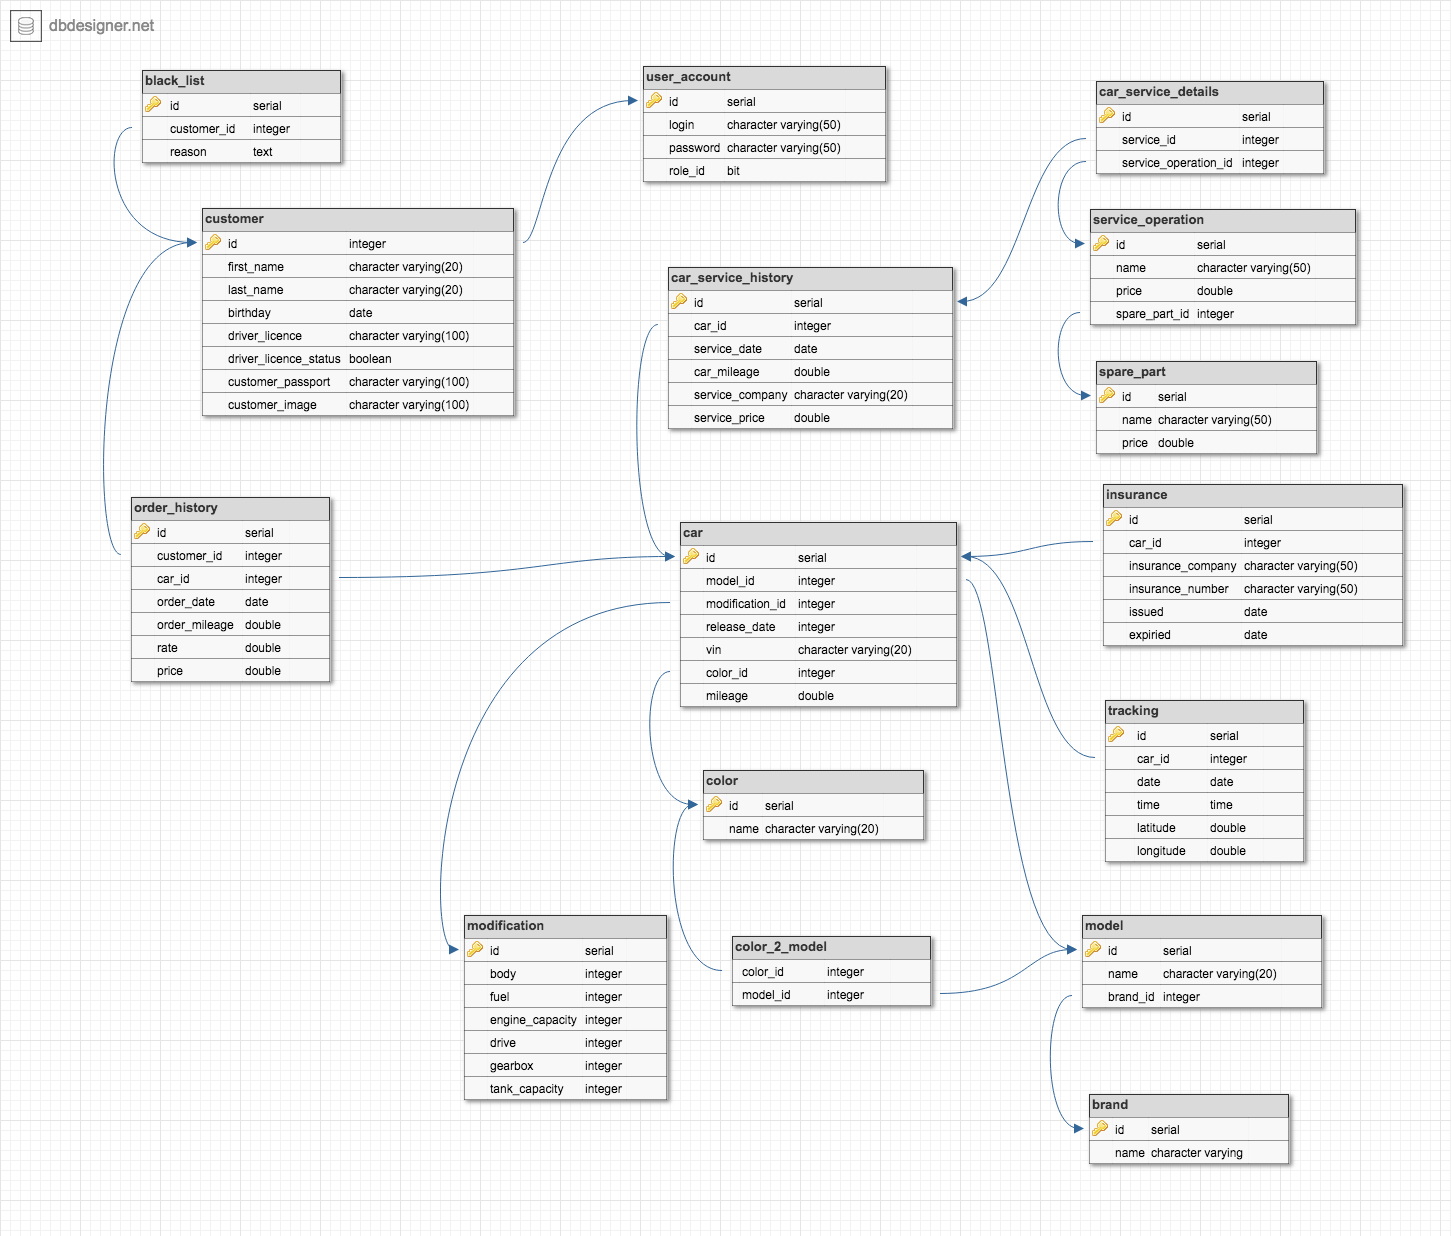
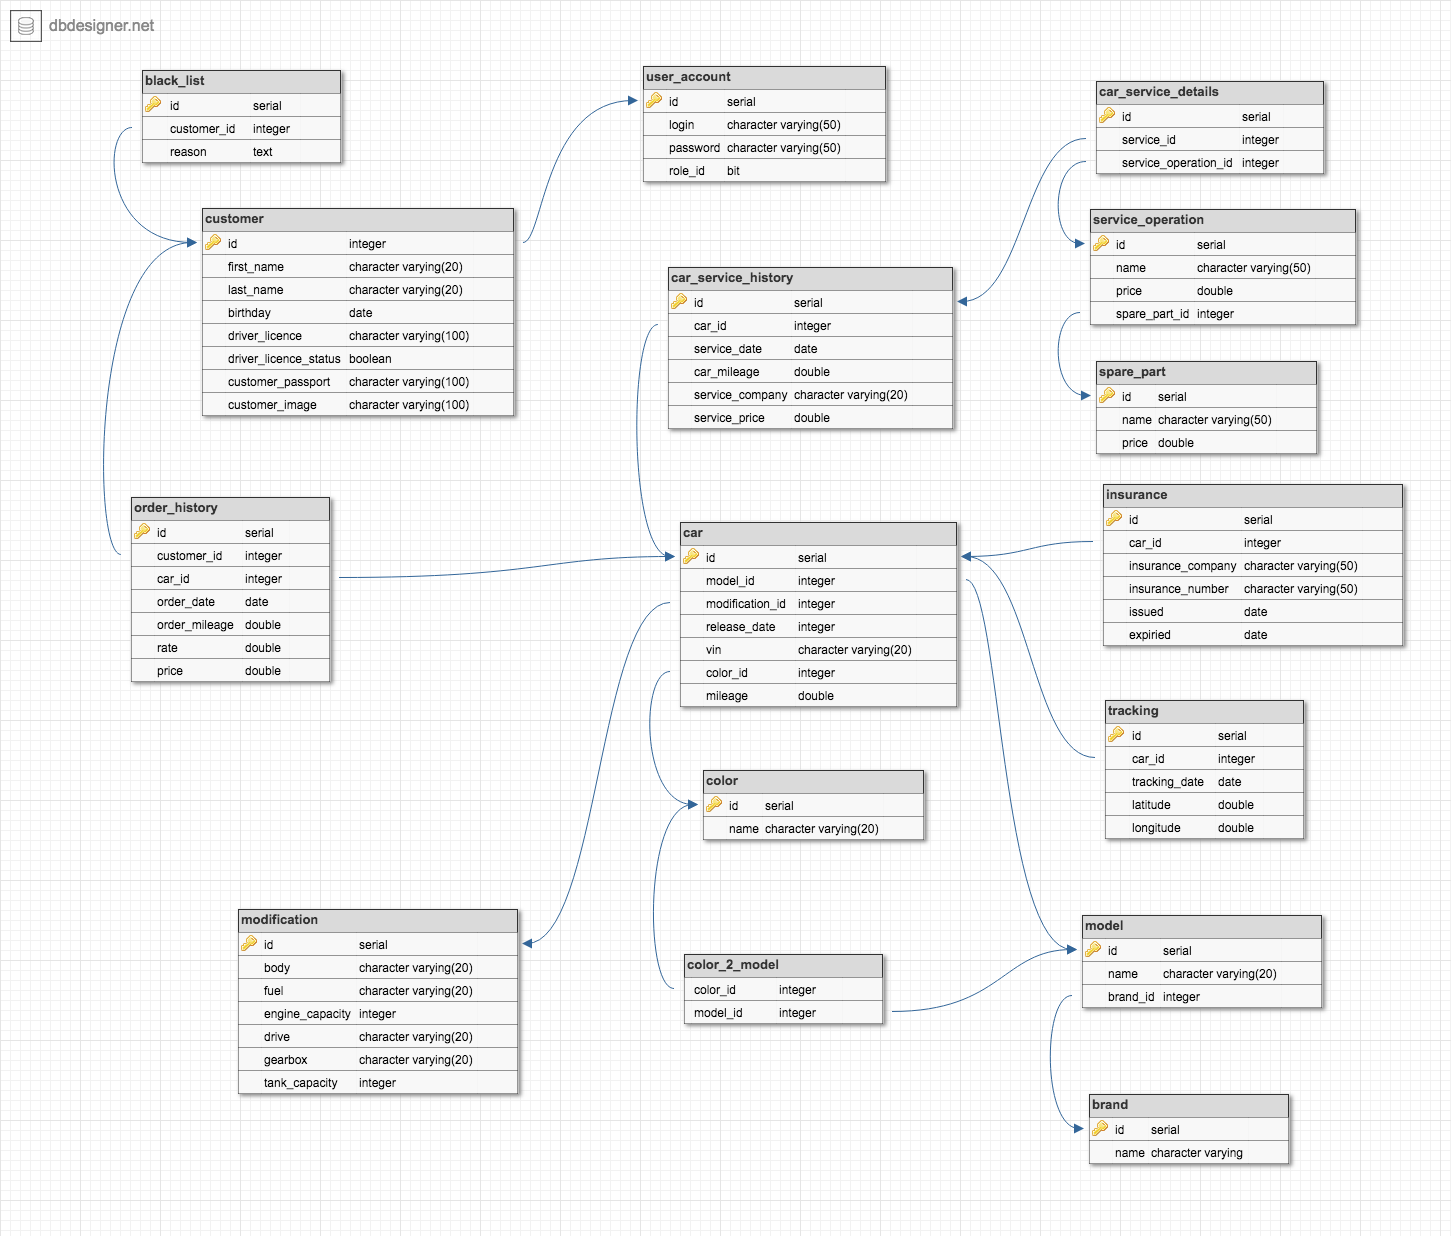
Still working on DAO layer

Changed region(s): [[0.1551, 0.7379, 0.6513, 0.8916], [0.7753, 0.5841, 0.8994, 0.7071]]

diff --git a/dao-jdbc-impl/src/main/java/com/itacademy/jd2/is/carsharing/dao/jdbc/impl/entity/CarServiceHistory.java b/dao-jdbc-impl/src/main/java/com/itacademy/jd2/is/carsharing/dao/jdbc/impl/entity/CarServiceHistory.java
@@ -5,71 +5,52 @@ import java.util.Date;
 import com.itacademy.jd2.is.carsharing.dao.api.entity.ICar;
 import com.itacademy.jd2.is.carsharing.dao.api.entity.ICarServiceHistory;
 
-public class CarServiceHistory extends BaseEntity implements ICarServiceHistory{
+public class CarServiceHistory extends BaseEntity implements ICarServiceHistory {
 
 	private ICar car;
 	private Date serviceDate;
 	private double carMileage;
 	private String serviceCompany;
-	private String operation;
-	private double operationPrice;
-	private String sparePart;
-	private double sparePartPrice;
 	private double servicePrice;
-	
+
 	public ICar getCar() {
 		return car;
 	}
+
 	public void setCar(ICar car) {
 		this.car = car;
 	}
+
 	public Date getServiceDate() {
 		return serviceDate;
 	}
+
 	public void setServiceDate(Date serviceDate) {
 		this.serviceDate = serviceDate;
 	}
+
 	public double getCarMileage() {
 		return carMileage;
 	}
+
 	public void setCarMileage(double carMileage) {
 		this.carMileage = carMileage;
 	}
+
 	public String getServiceCompany() {
 		return serviceCompany;
 	}
+
 	public void setServiceCompany(String serviceCompany) {
 		this.serviceCompany = serviceCompany;
 	}
-	public String getOperation() {
-		return operation;
-	}
-	public void setOperation(String operation) {
-		this.operation = operation;
-	}
-	public double getOperationPrice() {
-		return operationPrice;
-	}
-	public void setOperationPrice(double operationPrice) {
-		this.operationPrice = operationPrice;
-	}
-	public String getSparePart() {
-		return sparePart;
-	}
-	public void setSparePart(String sparePart) {
-		this.sparePart = sparePart;
-	}
-	public double getSparePartPrice() {
-		return sparePartPrice;
-	}
-	public void setSparePartPrice(double sparePartPrice) {
-		this.sparePartPrice = sparePartPrice;
-	}
+
 	public double getServicePrice() {
 		return servicePrice;
 	}
+
 	public void setServicePrice(double servicePrice) {
 		this.servicePrice = servicePrice;
 	}
-	
+
 }

diff --git a/dao-jdbc-impl/src/main/java/com/itacademy/jd2/is/carsharing/dao/jdbc/impl/entity/Modification.java b/dao-jdbc-impl/src/main/java/com/itacademy/jd2/is/carsharing/dao/jdbc/impl/entity/Modification.java
@@ -1,55 +1,62 @@
 package com.itacademy.jd2.is.carsharing.dao.jdbc.impl.entity;
 
-import com.itacademy.jd2.is.carsharing.dao.api.entity.IBody;
-import com.itacademy.jd2.is.carsharing.dao.api.entity.IDrive;
-import com.itacademy.jd2.is.carsharing.dao.api.entity.IFuel;
-import com.itacademy.jd2.is.carsharing.dao.api.entity.IGearbox;
 import com.itacademy.jd2.is.carsharing.dao.api.entity.IModification;
 
-public class Modification extends BaseEntity implements IModification{
-	
-	private IBody body;
-	private IFuel fuel;
+public class Modification extends BaseEntity implements IModification {
+
+	private Body body;
+	private Fuel fuel;
 	private int engineCapacity;
-	private IDrive drive;
-	private IGearbox gearbox;
+	private Drive drive;
+	private Gearbox gearbox;
 	private int tankCapacity;
-	
-	public IBody getBody() {
+
+	public Body getBody() {
 		return body;
 	}
-	public void setBody(IBody body) {
+
+	public void setBody(Body body) {
 		this.body = body;
 	}
-	public IFuel getFuel() {
+
+	public Fuel getFuel() {
 		return fuel;
 	}
-	public void setFuel(IFuel fuel) {
+
+	public void setFuel(Fuel fuel) {
 		this.fuel = fuel;
 	}
+
 	public int getEngineCapacity() {
 		return engineCapacity;
 	}
+
 	public void setEngineCapacity(int engineCapacity) {
 		this.engineCapacity = engineCapacity;
 	}
-	public IDrive getDrive() {
+
+	public Drive getDrive() {
 		return drive;
 	}
-	public void setDrive(IDrive drive) {
+
+	public void setDrive(Drive drive) {
 		this.drive = drive;
 	}
-	public IGearbox getGearbox() {
+
+	public Gearbox getGearbox() {
 		return gearbox;
 	}
-	public void setGearbox(IGearbox gearbox) {
+
+	public void setGearbox(Gearbox gearbox) {
 		this.gearbox = gearbox;
 	}
+
 	public int getTankCapacity() {
 		return tankCapacity;
 	}
+
 	public void setTankCapacity(int tankCapacity) {
 		this.tankCapacity = tankCapacity;
 	}
-	
+
 }

diff --git a/dao-api/src/main/java/com/itacademy/jd2/is/carsharing/dao/api/entity/IModification.java b/dao-api/src/main/java/com/itacademy/jd2/is/carsharing/dao/api/entity/IModification.java
@@ -1,30 +1,32 @@
 package com.itacademy.jd2.is.carsharing.dao.api.entity;
 
 import com.itacademy.jd2.is.carsharing.dao.api.base.IBaseEntity;
+import com.itacademy.jd2.is.carsharing.dao.jdbc.impl.entity.Body;
+import com.itacademy.jd2.is.carsharing.dao.jdbc.impl.entity.Drive;
+import com.itacademy.jd2.is.carsharing.dao.jdbc.impl.entity.Fuel;
+import com.itacademy.jd2.is.carsharing.dao.jdbc.impl.entity.Gearbox;
 
 public interface IModification extends IBaseEntity {
 
-	public IBody getBody();
+	void setBody(Body body);
 
-	public void setBody(IBody body);
+	Fuel getFuel();
 
-	public IFuel getFuel();
+	void setFuel(Fuel fuel);
 
-	public void setFuel(IFuel fuel);
+	int getEngineCapacity();
 
-	public int getEngineCapacity();
+	void setEngineCapacity(int engineCapacity);
 
-	public void setEngineCapacity(int engineCapacity);
+	Drive getDrive();
 
-	public IDrive getDrive();
+	void setDrive(Drive drive);
 
-	public void setDrive(IDrive drive);
+	Gearbox getGearbox();
 
-	public IGearbox getGearbox();
+	void setGearbox(Gearbox gearbox);
 
-	public void setGearbox(IGearbox gearbox);
+	int getTankCapacity();
 
-	public int getTankCapacity();
-
-	public void setTankCapacity(int tankCapacity);
+	void setTankCapacity(int tankCapacity);
 }

diff --git a/dao-jdbc-impl/src/main/java/com/itacademy/jd2/is/carsharing/dao/jdbc/impl/entity/Tracking.java b/dao-jdbc-impl/src/main/java/com/itacademy/jd2/is/carsharing/dao/jdbc/impl/entity/Tracking.java
@@ -9,7 +9,6 @@ public class Tracking extends BaseEntity implements ITracking{
 
 	private ICar car;
 	private Date trackingDate;
-	private Date trackingTime;
 	private double latitude;
 	private double longitude;
 
@@ -27,14 +26,6 @@ public class Tracking extends BaseEntity implements ITracking{
 
 	public void setTrackingDate(Date trackingDate) {
 		this.trackingDate = trackingDate;
-	}
-
-	public Date getTrackingTime() {
-		return trackingTime;
-	}
-
-	public void setTrackingTime(Date trackingTime) {
-		this.trackingTime = trackingTime;
 	}
 
 	public double getLatitude() {

diff --git a/dao-api/src/main/java/com/itacademy/jd2/is/carsharing/dao/api/entity/ICarServiceHistory.java b/dao-api/src/main/java/com/itacademy/jd2/is/carsharing/dao/api/entity/ICarServiceHistory.java
@@ -22,22 +22,6 @@ public interface ICarServiceHistory extends IBaseEntity {
 
 	 void setServiceCompany(String serviceCompany);
 
-	 String getOperation();
-
-	 void setOperation(String operation);
-
-	 double getOperationPrice();
-
-	 void setOperationPrice(double operationPrice);
-
-	 String getSparePart();
-
-	 void setSparePart(String sparePart);
-
-	 double getSparePartPrice();
-
-	 void setSparePartPrice(double sparePartPrice);
-
 	 double getServicePrice();
 
 	 void setServicePrice(double servicePrice);

diff --git a/dao-jdbc-impl/src/main/java/com/itacademy/jd2/is/carsharing/dao/jdbc/impl/entity/Body.java b/dao-jdbc-impl/src/main/java/com/itacademy/jd2/is/carsharing/dao/jdbc/impl/entity/Body.java
@@ -1,8 +1,6 @@
 package com.itacademy.jd2.is.carsharing.dao.jdbc.impl.entity;
 
-import com.itacademy.jd2.is.carsharing.dao.api.entity.IBody;
-
-public enum Body implements IBody {
+public enum Body{
 
 	HATCHBACK("Hatchback"), SEDAN("Sedan"), MPV("MPV"), SUV("SUV"), 
 	CROSSOVER("Crossover"), COUPE("Coupe"), CONVERTIBLE("Convertible"), 

diff --git a/dao-jdbc-impl/src/main/java/com/itacademy/jd2/is/carsharing/dao/jdbc/impl/entity/Drive.java b/dao-jdbc-impl/src/main/java/com/itacademy/jd2/is/carsharing/dao/jdbc/impl/entity/Drive.java
@@ -1,8 +1,6 @@
 package com.itacademy.jd2.is.carsharing.dao.jdbc.impl.entity;
 
-import com.itacademy.jd2.is.carsharing.dao.api.entity.IDrive;
-
-public enum Drive implements IDrive{
+public enum Drive{
 	
 	ALL_WHEEL_DRIVE("All-wheel drive"), REAR_WHEEL_DRIVE("Rear-wheel drive"),
 	FRONT_WHEEL_DRIVE("Front-wheel drive");

diff --git a/dao-jdbc-impl/src/main/java/com/itacademy/jd2/is/carsharing/dao/jdbc/impl/entity/Gearbox.java b/dao-jdbc-impl/src/main/java/com/itacademy/jd2/is/carsharing/dao/jdbc/impl/entity/Gearbox.java
@@ -1,8 +1,6 @@
 package com.itacademy.jd2.is.carsharing.dao.jdbc.impl.entity;
 
-import com.itacademy.jd2.is.carsharing.dao.api.entity.IGearbox;
-
-public enum Gearbox implements IGearbox{
+public enum Gearbox {
 	MANUAL("Manual"), AUTOMATIC("Automatic"), CVT("CVT"), 
 	EVT("EVT"), SEMI_AUTOMATIC ("Semi-automatic");
 	

diff --git a/dao-jdbc-impl/src/main/java/com/itacademy/jd2/is/carsharing/dao/jdbc/impl/entity/CarServiceDetail.java b/dao-jdbc-impl/src/main/java/com/itacademy/jd2/is/carsharing/dao/jdbc/impl/entity/CarServiceDetail.java
@@ -1,0 +1,12 @@
+package com.itacademy.jd2.is.carsharing.dao.jdbc.impl.entity;
+
+import com.itacademy.jd2.is.carsharing.dao.api.entity.IServiceOperation;
+
+public class CarServiceDetail extends BaseEntity{
+	
+	private IService service;
+	private IServiceOperation serviceOperation;
+	
+	
+
+}

diff --git a/dao-jdbc-impl/src/main/java/com/itacademy/jd2/is/carsharing/dao/jdbc/impl/entity/Fuel.java b/dao-jdbc-impl/src/main/java/com/itacademy/jd2/is/carsharing/dao/jdbc/impl/entity/Fuel.java
@@ -1,8 +1,6 @@
 package com.itacademy.jd2.is.carsharing.dao.jdbc.impl.entity;
 
-import com.itacademy.jd2.is.carsharing.dao.api.entity.IFuel;
-
-public enum Fuel implements IFuel{
+public enum Fuel{
 	
 	DIESEL("Diesel"), PETROL("Petrol"), HYBRID("Hybrid"), ELECTRIC("Electric");
 	

diff --git a/dao-api/src/main/java/com/itacademy/jd2/is/carsharing/dao/api/entity/ITracking.java b/dao-api/src/main/java/com/itacademy/jd2/is/carsharing/dao/api/entity/ITracking.java
@@ -14,10 +14,6 @@ public interface ITracking extends IBaseEntity {
 
 	void setTrackingDate(Date trackingDate);
 
-	Date getTrackingTime();
-
-	void setTrackingTime(Date trackingTime);
-
 	double getLatitude();
 
 	void setLatitude(double latitude);

diff --git a/dao-api/src/main/java/com/itacademy/jd2/is/carsharing/dao/api/entity/ICarServiceDetail.java b/dao-api/src/main/java/com/itacademy/jd2/is/carsharing/dao/api/entity/ICarServiceDetail.java
@@ -1,0 +1,7 @@
+package com.itacademy.jd2.is.carsharing.dao.api.entity;
+
+import com.itacademy.jd2.is.carsharing.dao.api.base.IBaseEntity;
+
+public interface ICarServiceDetail extends IBaseEntity{
+
+}
